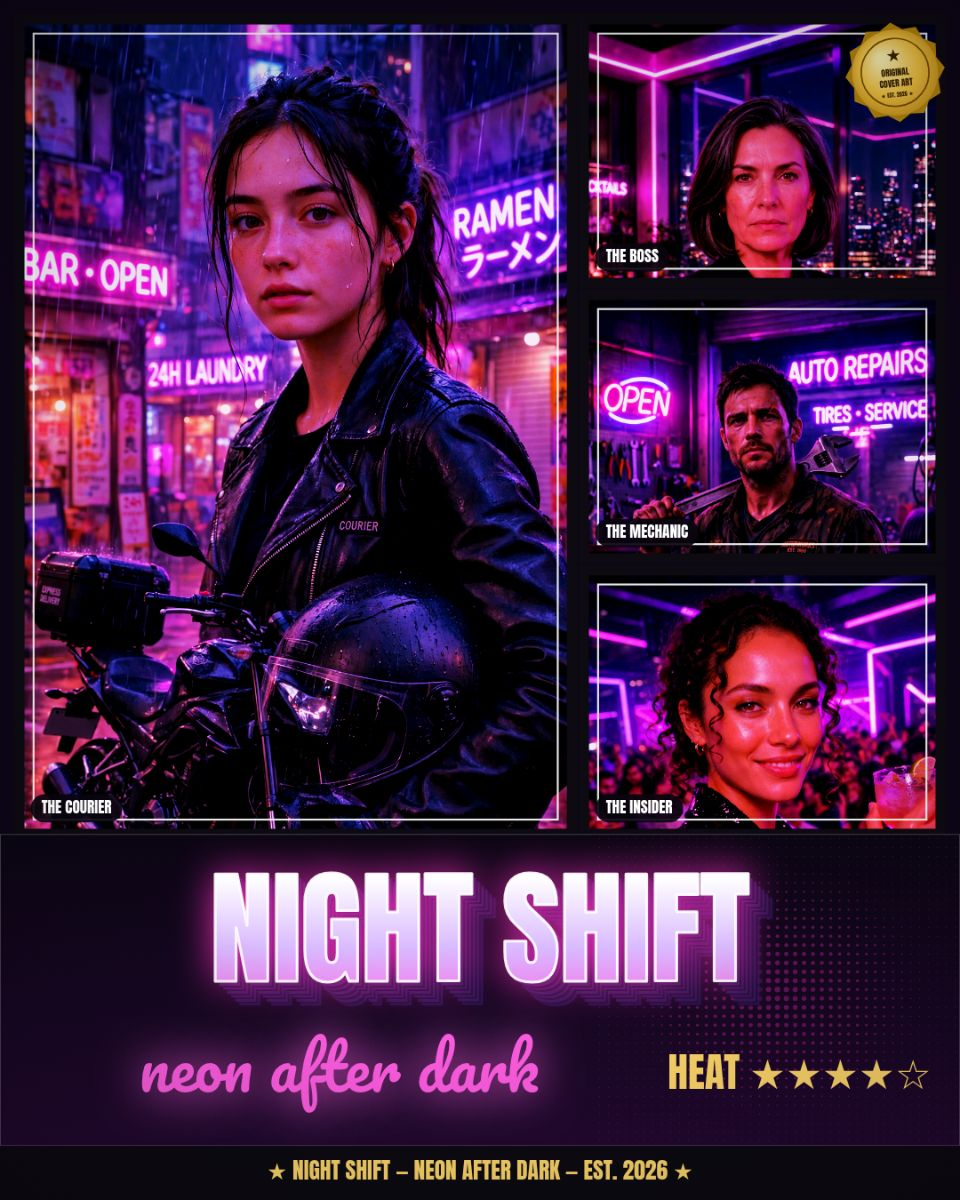
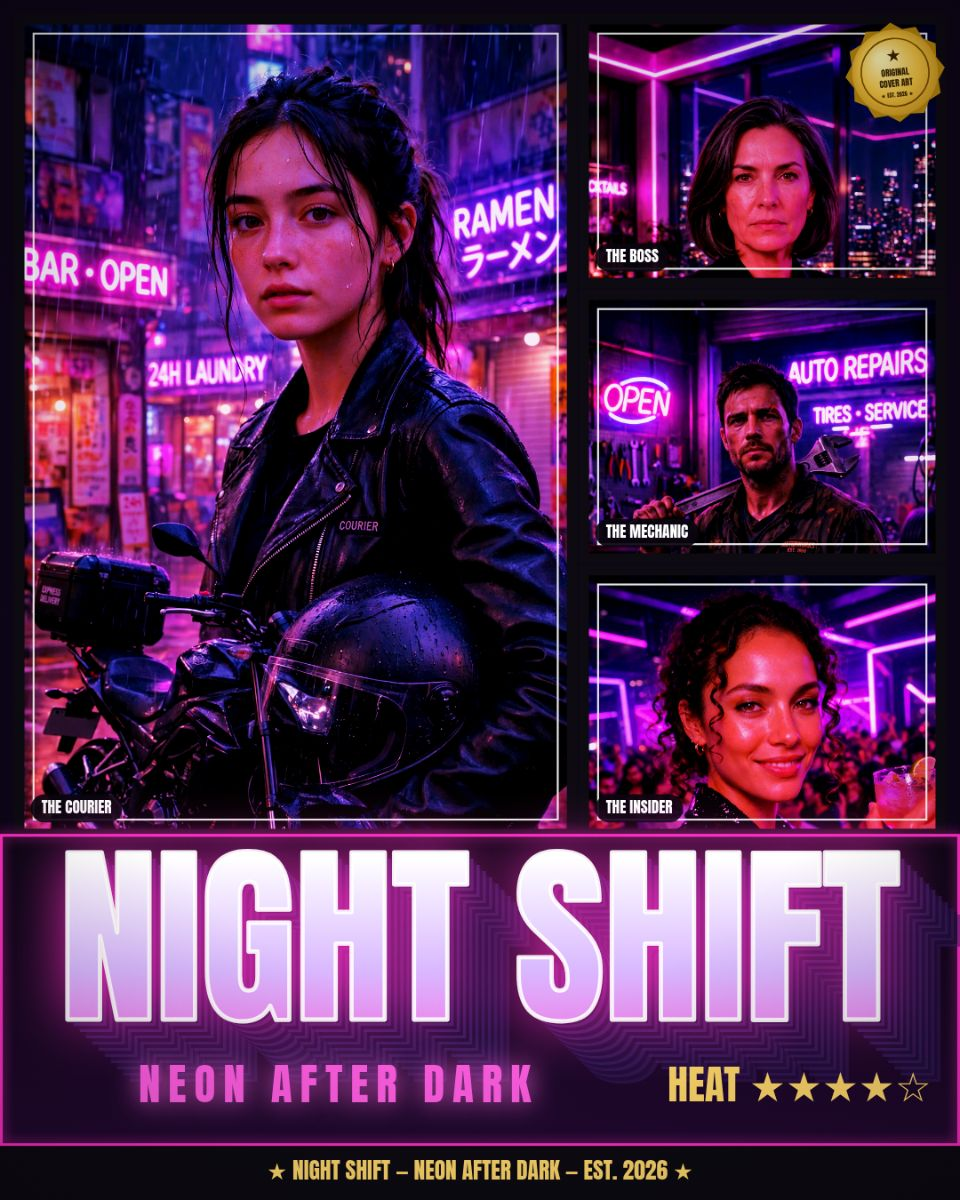
Mockup match: first-mockup composition (title at the bottom, diverse beach/street/car/person panels)

Changed region(s): [[0.0, 0.6783, 1.0, 0.9558]]

diff --git a/app/src/main.js b/app/src/main.js
@@ -2,19 +2,26 @@
 // labels, seal, sizes, export. State lives here; cover.js draws it.
 // Undo/redo keeps a history of the settings (photos themselves are not part
 // of a history step).
-import { renderCover, exportCoverPNG, COVER_SIZES, COVER_GRADES, COVER_LAYOUTS, TITLE_STYLES, layoutPanels } from './cover.js';
+import { renderCover, exportCoverPNG, COVER_SIZES, COVER_GRADES, COVER_LAYOUTS, layoutPanels } from './cover.js';
 import { runShot } from './shots.js';
 
 const canvas = document.getElementById('cover');
 const statusEl = document.getElementById('status');
 const trayEl = document.getElementById('tray');
-// Six sample photos: four new neon-city characters plus the kit's two.
+// Nine sample photos: the mockup's diverse set first (sunset beach, neon
+// palm street, pink sports car), then the neon-city characters and the kit's two.
 export const SAMPLE_PHOTOS = [
+  { file: 'beach.jpg', label: 'THE SHORE', face: null },
+  { file: 'street.jpg', label: 'THE STRIP', face: null },
+  // The car sits low in its photo (centre ~0.59 down): the crop anchor is
+  // the subject's centre, like faceY for portraits, so a wide short cell
+  // shows the car instead of only sky.
+  { file: 'car.jpg', label: 'THE RIDE', face: 0.59 },
+  { file: 'boulevard.jpg', label: 'THE CREW', face: 0.25 },
   { file: 'mechanic.jpg', label: 'THE MECHANIC', face: 0.16 },
   { file: 'courier.jpg', label: 'THE COURIER', face: 0.18 },
   { file: 'insider.jpg', label: 'THE INSIDER', face: 0.21 },
   { file: 'boss.jpg', label: 'THE BOSS', face: 0.22 },
-  { file: 'boulevard.jpg', label: 'THE CREW', face: 0.25 },
   { file: 'pier.jpg', label: 'THE ANGLER', face: 0.15 },
 ];
 const SAMPLE_LABELS = Object.fromEntries(SAMPLE_PHOTOS.map((s) => [s.file.replace('.jpg', ''), s.label]));
@@ -26,10 +33,10 @@ let drag = null;
 
 const state = {
   layout: 'four-panel',
-  grade: 'neon-night',
+  grade: 'vice-sunset',
   size: '1080x1080',
-  title: 'Last Call',
-  subtitle: 'Neon Avenue',
+  title: 'Vice City',
+  subtitle: 'Neon • Sunset • 1987 — Your story, your city',
   subtitleColor: '#ff5ce1',
   titleStyle: 'chrome-3d',
   heat: 4,
@@ -116,7 +123,6 @@ function redraw() {
   document.querySelectorAll('#sizes button').forEach((b) => b.classList.toggle('active', b.dataset.size === state.size));
   document.querySelectorAll('#layouts button').forEach((b) => b.classList.toggle('active', b.dataset.layout === state.layout));
   document.querySelectorAll('#grades button').forEach((b) => b.classList.toggle('active', b.dataset.grade === state.grade));
-  document.querySelectorAll('#titleStyles button').forEach((b) => b.classList.toggle('active', b.dataset.titleStyle === state.titleStyle));
   const cells = layoutPanels(state.layout, canvas.width, canvas.height, state.strip).cells.length;
   document.getElementById('panelLabel').textContent = `Panel ${Math.min(selectedPanel + 1, cells)} of ${cells}`;
   document.getElementById('panelLabelInput').value = state.slots[selectedPanel].label || '';
@@ -124,15 +130,10 @@ function redraw() {
 
 function syncControls() {
   document.getElementById('title').value = state.title;
-  document.getElementById('subtitle').value = state.subtitle;
-  document.getElementById('subtitleColor').value = state.subtitleColor;
   document.getElementById('heat').value = String(state.heat);
   document.getElementById('strip').checked = state.strip;
   document.getElementById('showLabels').checked = state.showLabels;
   document.getElementById('showSeal').checked = state.showSeal;
-  document.getElementById('brightness').value = String(state.brightness);
-  document.getElementById('contrast').value = String(state.contrast);
-  document.getElementById('glow').value = String(state.glow);
   document.getElementById('zoom').value = String(state.slots[selectedPanel].zoom);
   redraw();
 }
@@ -261,13 +262,6 @@ document.getElementById('grades').addEventListener('click', (e) => {
   pushHistory(); redraw();
   setStatus(`Grade: ${COVER_GRADES[state.grade].name}.`);
 });
-document.getElementById('titleStyles').addEventListener('click', (e) => {
-  const b = e.target.closest('button[data-title-style]');
-  if (!b) return;
-  state.titleStyle = b.dataset.titleStyle;
-  pushHistory(); redraw();
-  setStatus(`Title style: ${TITLE_STYLES[state.titleStyle].name}.`);
-});
 document.getElementById('sizes').addEventListener('click', (e) => {
   const b = e.target.closest('button[data-size]');
   if (!b) return;
@@ -277,10 +271,6 @@ document.getElementById('sizes').addEventListener('click', (e) => {
 });
 document.getElementById('title').addEventListener('input', (e) => { state.title = e.target.value; redraw(); });
 document.getElementById('title').addEventListener('change', pushHistory);
-document.getElementById('subtitle').addEventListener('input', (e) => { state.subtitle = e.target.value; redraw(); });
-document.getElementById('subtitle').addEventListener('change', pushHistory);
-document.getElementById('subtitleColor').addEventListener('input', (e) => { state.subtitleColor = e.target.value; redraw(); });
-document.getElementById('subtitleColor').addEventListener('change', pushHistory);
 document.getElementById('heat').addEventListener('change', (e) => {
   state.heat = Number(e.target.value);
   pushHistory(); redraw();
@@ -302,16 +292,6 @@ document.getElementById('panelLabelInput').addEventListener('input', (e) => {
   redraw();
 });
 document.getElementById('panelLabelInput').addEventListener('change', pushHistory);
-for (const [key, el] of [['brightness', 'brightness'], ['contrast', 'contrast'], ['glow', 'glow']]) {
-  document.getElementById(el).addEventListener('input', (e) => {
-    state[key] = Number(e.target.value);
-    document.getElementById(`${el}Val`).textContent = key === 'glow'
-      ? `${Math.round(state[key] * 100)}%`
-      : `${state[key].toFixed(2)}×`;
-    redraw();
-  });
-  document.getElementById(el).addEventListener('change', pushHistory);
-}
 document.getElementById('zoom').addEventListener('input', (e) => {
   state.slots[selectedPanel].zoom = Number(e.target.value);
   redraw();
@@ -355,7 +335,7 @@ document.getElementById('export-all').addEventListener('click', async () => {
   setStatus('Exported all 3 sizes: 1080×1080, 1080×1350, 1920×1080.');
 });
 
-/** Loads the six sample photos and fills the panels, first run only. */
+/** Loads the nine sample photos and fills the panels, first run only. */
 export async function loadSamples() {
   if (photos.length > 0) return;
   for (const s of SAMPLE_PHOTOS) {
@@ -384,7 +364,7 @@ async function init() {
     await loadSamples();
     syncControls();
     pushHistory();
-    setStatus('Six sample photos loaded. Upload your own, pick a layout, export a PNG.');
+    setStatus('Nine sample photos loaded. Upload your own, pick a layout, export a PNG.');
   }
   await document.fonts.ready;
   redraw();

diff --git a/app/src/cover.js b/app/src/cover.js
@@ -1,9 +1,14 @@
 // Neon Chrome cover renderer: draws a GTA-style multi-panel poster cover on
 // a 2D canvas, from any photos and a caption. All art is drawn here — the
-// 3D chrome retro title (real layered extrusion, not flat text), neon script
-// subtitle, character callout tags, gold "Original Cover Art" seal, inked
+// 3D chrome retro title (real layered extrusion, not flat text), small-caps
+// tagline, character callout tags, gold "Original Cover Art" seal, inked
 // panel frames, halftone title block, palm and skyline silhouettes, a retro
 // sun, grain and vignette — no external images, no network.
+//
+// Composition matches the reference mockup: a four-panel grid of diverse
+// scenes (sunset beach, neon palm street, pink sports car, a person), with
+// the giant 3D title in a pink-neon-framed block at the BOTTOM and the
+// story strip under it.
 //
 // Layouts: four-panel grid, hero-and-three, full-bleed, tilted snapshots,
 // nine-panel grid, triptych. Grades: gradient-map colour grades applied per
@@ -259,9 +264,10 @@ export function draw3DText(ctx, text, cx, cy, size, face, edge, glowColor, glow)
   ctx.restore();
 }
 
-/** The title block: halftone field, 3D retro title, neon Pacifico subtitle,
- *  heat stars. `zone` is {x,y,w,h}. `opts` is {titleStyle, subtitleColor,
- *  glow}. */
+/** The title block: pink neon frame, giant 3D retro title, small-caps
+ *  tagline, heat stars. `zone` is {x,y,w,h}. `opts` is {titleStyle,
+ *  subtitleColor, glow}. The title is the biggest, boldest element on the
+ *  cover: it fills most of the block, like the reference mockup. */
 export function drawTitleBlock(ctx, zone, title, subtitle, heat, scale, opts = {}) {
   const { x, y, w, h } = zone;
   const titleStyle = opts.titleStyle ?? 'chrome-3d';
@@ -273,20 +279,26 @@ export function drawTitleBlock(ctx, zone, title, subtitle, heat, scale, opts = {
   bg.addColorStop(1, 'rgba(34,8,48,0.98)');
   ctx.fillStyle = bg;
   ctx.fillRect(x, y, w, h);
-  drawHalftoneField(ctx, { x: x + w * 0.62, y, w: w * 0.38, h }, 'rgba(255,46,196,0.32)');
-  ctx.strokeStyle = 'rgba(255,255,255,0.22)';
-  ctx.lineWidth = 1;
-  ctx.strokeRect(x + 0.5, y + 0.5, w - 1, h - 1);
+  // Pink neon frame around the whole title block, like the mockup.
+  ctx.strokeStyle = '#ff2ec4';
+  ctx.lineWidth = Math.max(2, scale * 0.003);
+  ctx.shadowColor = '#ff2ec4';
+  ctx.shadowBlur = Math.max(6, scale * 0.012);
+  ctx.strokeRect(x + 1.5, y + 1.5, w - 3, h - 3);
+  ctx.shadowBlur = 0;
 
   const text = (title || 'UNTITLED').trim().toUpperCase();
-  let size = h * 0.4;
+  // Anton's caps are unusually tall (cap height 0.86em, ascender 1.18em),
+  // so with textBaseline 'middle' the cap top sits at ty - 0.44*size: the
+  // centre must sit low enough that the caps clear the frame's top edge.
+  let size = h * 0.72;
   ctx.textAlign = 'center'; ctx.textBaseline = 'middle';
   ctx.font = `${size}px Anton, 'Arial Black', sans-serif`;
   while (ctx.measureText(text).width > w * 0.88 && size > 10) {
     size -= 2;
     ctx.font = `${size}px Anton, 'Arial Black', sans-serif`;
   }
-  const ty = y + h * (subtitle ? 0.36 : 0.48);
+  const ty = y + h * (subtitle ? 0.42 : 0.48);
   if (titleStyle === 'chrome-3d') {
     draw3DText(ctx, text, x + w / 2, ty, size,
       ['#ffffff', '#d9b8ff', '#ff5ce1'],
@@ -321,30 +333,37 @@ export function drawTitleBlock(ctx, zone, title, subtitle, heat, scale, opts = {
   const heatLeft = heatRight - heatWidth;
 
   if (subtitle) {
-    const ss0 = Math.max(12, h * 0.2);
+    // Tagline in small caps, like the reference mockup's
+    // "NEON • SUNSET • 1987 — YOUR STORY, YOUR CITY" line: letter-spaced
+    // Anton in the subtitle colour, not script.
+    const tagline = subtitle.trim().toUpperCase();
+    const ss0 = Math.max(11, h * 0.14);
     let ss = ss0;
-    ctx.font = `${ss}px Pacifico, cursive`;
-    // Centre the subtitle in the region left of the heat stars (or the
+    ctx.font = `${ss}px Anton, 'Arial Black', sans-serif`;
+    ctx.letterSpacing = `${Math.max(2, ss * 0.18)}px`;
+    // Centre the tagline in the region left of the heat stars (or the
     // full band when there are none), shrinking only if it still overflows.
     const availL = x + w * 0.03;
     const availR = heat > 0 ? heatLeft - w * 0.02 : x + w - w * 0.03;
     const availW = Math.max(50, availR - availL);
-    while (ctx.measureText(subtitle).width > availW && ss > 10) {
-      ss -= 2;
-      ctx.font = `${ss}px Pacifico, cursive`;
+    while (ctx.measureText(tagline).width > availW && ss > 9) {
+      ss -= 1;
+      ctx.font = `${ss}px Anton, 'Arial Black', sans-serif`;
+      ctx.letterSpacing = `${Math.max(2, ss * 0.18)}px`;
     }
     ctx.fillStyle = subtitleColor;
-    ctx.shadowColor = subtitleColor; ctx.shadowBlur = ss * 0.7;
-    ctx.fillText(subtitle, availL + availW / 2, y + h * 0.78);
+    ctx.shadowColor = subtitleColor; ctx.shadowBlur = ss * 0.6;
+    ctx.fillText(tagline, availL + availW / 2, y + h * 0.82);
     ctx.shadowBlur = 0;
+    ctx.letterSpacing = '0px';
   }
   if (heat > 0) {
-    // On the subtitle's line, right-aligned, so it never crowds the title.
+    // On the tagline's line, right-aligned, so it never crowds the title.
     const hs = Math.max(10, h * 0.13);
     ctx.font = `${hs}px Anton, sans-serif`;
     ctx.textAlign = 'right';
     ctx.fillStyle = '#ffd76a';
-    ctx.fillText(heatText, heatRight, y + h * 0.78);
+    ctx.fillText(heatText, heatRight, y + h * 0.82);
     ctx.textAlign = 'center';
   }
   ctx.restore();

diff --git a/app/index.html b/app/index.html
@@ -18,7 +18,7 @@
   </div>
   <div class="top-actions">
     <span class="autosave"><span class="dot"></span> Auto-save on</span>
-    <span class="project">Project: <strong>Last Call</strong></span>
+    <span class="project">Project: <strong>Vice City</strong></span>
     <button id="undo" type="button" title="Undo (Ctrl+Z)">↩ Undo</button>
     <button id="redo" type="button" title="Redo (Ctrl+Y)">↪ Redo</button>
   </div>
@@ -35,6 +35,9 @@
         <input id="upload" type="file" accept="image/*" multiple>
       </label>
       <div id="samples" class="btn-grid samples">
+        <button type="button" data-sample="beach.jpg">Beach</button>
+        <button type="button" data-sample="street.jpg">Street</button>
+        <button type="button" data-sample="car.jpg">Car</button>
         <button type="button" data-sample="mechanic.jpg">Mechanic</button>
         <button type="button" data-sample="courier.jpg">Courier</button>
         <button type="button" data-sample="insider.jpg">Insider</button>
@@ -69,25 +72,10 @@
         <button type="button" data-grade="noir-pop" style="--g1:#ffffff;--g2:#ff2d78">Noir Pop</button>
         <button type="button" data-grade="palm-dusk" style="--g1:#7b2ff7;--g2:#ff5e62">Palm Dusk</button>
       </div>
-      <div class="sliders">
-        <label>Brightness <span id="brightnessVal" class="val">1.00×</span><input id="brightness" type="range" min="0.7" max="1.3" step="0.01" value="1"></label>
-        <label>Contrast <span id="contrastVal" class="val">1.00×</span><input id="contrast" type="range" min="0.8" max="1.4" step="0.01" value="1"></label>
-        <label>Neon Glow <span id="glowVal" class="val">70%</span><input id="glow" type="range" min="0" max="1" step="0.01" value="0.7"></label>
-      </div>
     </div>
     <div class="group">
       <h2>4 · Caption</h2>
-      <label>Title <input id="title" type="text" maxlength="30" value="Last Call"></label>
-      <div class="row">
-        <label>Subtitle <input id="subtitle" type="text" maxlength="40" value="Neon Avenue"></label>
-        <label class="color-label">Color <input id="subtitleColor" type="color" value="#ff5ce1"></label>
-      </div>
-      <label>Title style</label>
-      <div id="titleStyles" class="btn-grid title-styles">
-        <button type="button" data-title-style="chrome-3d">Chrome 3D</button>
-        <button type="button" data-title-style="gold-3d">Gold 3D</button>
-        <button type="button" data-title-style="flat">Flat</button>
-      </div>
+      <label>Title <input id="title" type="text" maxlength="30" value="Vice City"></label>
     </div>
     <div class="group">
       <h2>5 · Labels &amp; seal</h2>
@@ -119,6 +107,7 @@
         <button id="export" type="button" class="primary">⬇ Export PNG</button>
         <button id="export-all" type="button">Export all 3 sizes</button>
       </div>
+      <p class="export-note">Exports as high-quality PNG</p>
       <p id="status" role="status"></p>
     </div>
   </section>

diff --git a/app/style.css b/app/style.css
@@ -71,14 +71,9 @@ input[type="text"], select {
 }
 input[type="text"]:focus, select:focus { outline: 2px solid #ff2ec4; }
 input[type="file"] { display: none; }
-input[type="color"] {
-  width: 100%; height: 36px; margin-top: 4px; padding: 2px;
-  background: #0a0a10; border: 1px solid #3a3a4d; border-radius: 6px; cursor: pointer;
-}
-.color-label { flex: 0 0 84px; }
 .upload-btn {
   display: block; text-align: center; padding: 10px; cursor: pointer;
-  background: linear-gradient(90deg, #ff2ec4, #a855f7); color: #fff;
+  background: linear-gradient(90deg, #ff2ec4, #ff7b2f); color: #fff;
   border-radius: 8px; font-weight: 700; margin: 0 0 8px;
   box-shadow: 0 0 16px rgba(255, 46, 196, 0.35);
 }
@@ -94,28 +89,24 @@ button {
 button:hover { border-color: #ff2ec4; }
 button:disabled { opacity: 0.4; cursor: default; }
 button.active {
-  background: linear-gradient(90deg, #ff2ec4, #a855f7);
+  background: linear-gradient(90deg, #ff2ec4, #ff7b2f);
   border-color: transparent; color: #fff; font-weight: 700;
 }
 button.primary {
-  background: linear-gradient(90deg, #ff2ec4, #a855f7); border: none;
+  background: linear-gradient(90deg, #ff2ec4, #ff7b2f); border: none;
   font-weight: 800; font-size: 15px; padding: 11px;
   box-shadow: 0 0 20px rgba(255, 46, 196, 0.45);
 }
 .btn-grid { display: grid; grid-template-columns: 1fr 1fr; gap: 8px; }
 .btn-grid.sizes { grid-template-columns: 1fr 1fr 1fr; }
 .btn-grid.samples { grid-template-columns: 1fr 1fr 1fr; }
-.btn-grid.title-styles { grid-template-columns: 1fr 1fr 1fr; }
 .grades button {
   background: linear-gradient(135deg, var(--g1), var(--g2));
   border: none; color: #fff; font-weight: 700;
   text-shadow: 1px 1px 2px rgba(0, 0, 0, 0.6);
 }
 .grades button.active { outline: 3px solid #fff; }
-.sliders { margin-top: 10px; display: flex; flex-direction: column; gap: 4px; }
-.sliders label { margin: 2px 0; }
-.sliders input[type="range"] { width: 100%; accent-color: #ff2ec4; margin-top: 2px; }
-.sliders .val { float: right; color: #ff5ce1; font-weight: 700; font-size: 12px; }
+.export-note { margin: 8px 0 0; color: #8d84a3; font-size: 12.5px; text-align: center; }
 .tray { display: flex; gap: 8px; flex-wrap: wrap; margin-top: 8px; min-height: 96px; }
 .thumb { padding: 0; border: 2px solid #2a2a3a; border-radius: 6px; overflow: hidden; background: none; }
 .thumb canvas { display: block; width: 96px; height: 96px; }

diff --git a/app/src/shots.js b/app/src/shots.js
@@ -1,5 +1,8 @@
 // Fixed scenes for screenshots: ?shot=cover shows one exported cover alone at
 // its export size; ?shot=editor shows the editor with sample photos loaded.
+// The default cover matches the reference mockup: diverse scenes (sunset
+// beach, neon palm street, pink sports car, a person) with the giant 3D
+// title in its pink-neon-framed block at the bottom.
 // Query params: layout, grade, size (1080x1080|1080x1350|1920x1080), title,
 // subtitle, subtitleColor, titleStyle (chrome-3d|gold-3d|flat), heat (0-5),
 // strip (0|1), labels (0|1), seal (0|1), brightness, contrast, glow,
@@ -23,10 +26,11 @@ export async function runShot(shot, query, api) {
   state.brightness = Number(get('brightness', '1'));
   state.contrast = Number(get('contrast', '1'));
   state.glow = Number(get('glow', '0.7'));
-  const photoNames = (get('photos', 'mechanic,courier,insider,boss') || '').split(',').map((s) => s.trim()).filter(Boolean);
+  const photoNames = (get('photos', 'beach,street,car,boulevard') || '').split(',').map((s) => s.trim()).filter(Boolean);
   const photoIds = photoNames.map((name) => api.photoIdByName(name)).filter(Boolean);
-  const fallback = api.photoIdByName('mechanic');
+  const fallback = api.photoIdByName('beach');
   const labels = {
+    beach: 'THE SHORE', street: 'THE STRIP', car: 'THE RIDE',
     mechanic: 'THE MECHANIC', courier: 'THE COURIER', insider: 'THE INSIDER',
     boss: 'THE BOSS', boulevard: 'THE CREW', pier: 'THE ANGLER',
   };
